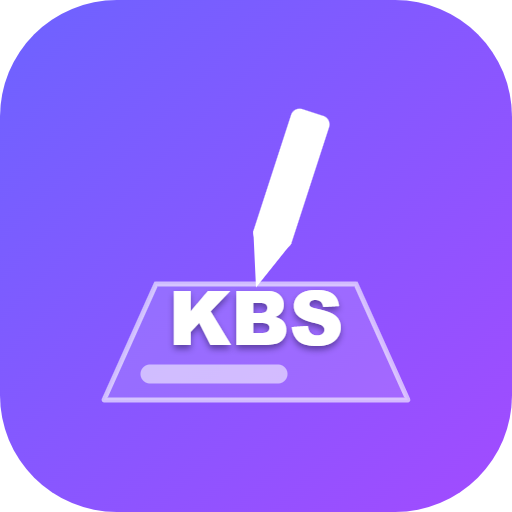
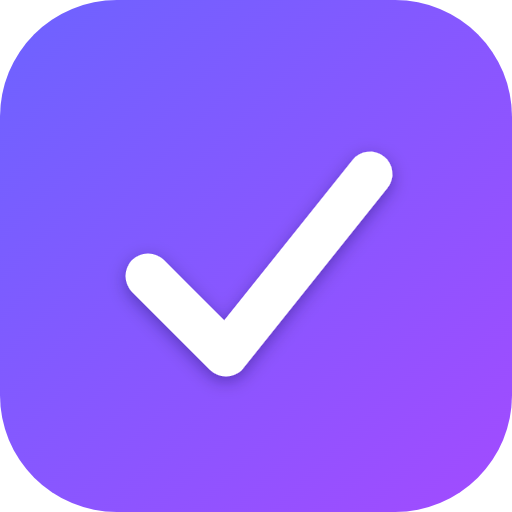
앱 아이콘 — 1d 체크(점검 완료) 디자인으로 변경
- 인디고→바이올렛 그라데 배경 + 흰 체크(주·야간 가시성 유지, 페이지 인디고와 통일)
- 홈 로고: 체크가 그려지는 draw-in 애니메이션(2.6s), reduced-motion 정지
- KBS 쓰기 디자인 → 체크로 교체, 앱아이콘 PNG 6종 재생성, sw v39

Changed region(s): [[0.1875, 0.1875, 0.8125, 0.8125]]

diff --git a/index.html b/index.html
@@ -49,15 +49,9 @@
     .hero { text-align:center; margin:14px 0 22px; }
     .emblem { display:grid; place-items:center; margin:2px auto 12px; }
     .appicon { width:116px; height:116px; border-radius:27px; overflow:hidden; box-shadow:0 12px 28px rgba(20,40,80,.30); display:block; }
-    @keyframes writeKBS { 0%{transform:translate(-96px,0)} 8%{transform:translate(-96px,-9px)} 18%{transform:translate(-96px,2px)} 33%{transform:translate(0,-9px)} 44%{transform:translate(0,2px)} 58%{transform:translate(96px,-9px)} 69%{transform:translate(96px,2px)} 82%{transform:translate(96px,0)} 100%{transform:translate(-96px,0)} }
-    @keyframes kA { 0%,12%{opacity:0} 18%,88%{opacity:1} 96%,100%{opacity:0} }
-    @keyframes kB { 0%,38%{opacity:0} 44%,88%{opacity:1} 96%,100%{opacity:0} }
-    @keyframes kS { 0%,63%{opacity:0} 69%,88%{opacity:1} 96%,100%{opacity:0} }
-    .appicon .pencil { animation:writeKBS 3s ease-in-out infinite; }
-    .appicon .kA { animation:kA 3s ease-in-out infinite; }
-    .appicon .kB { animation:kB 3s ease-in-out infinite; }
-    .appicon .kS { animation:kS 3s ease-in-out infinite; }
-    @media (prefers-reduced-motion: reduce) { .appicon .pencil{animation:none;transform:none} .appicon .kA,.appicon .kB,.appicon .kS{animation:none;opacity:1} }
+    @keyframes drawcheck { 0%{stroke-dashoffset:760} 34%{stroke-dashoffset:0} 84%{stroke-dashoffset:0} 100%{stroke-dashoffset:760} }
+    .appicon .chk { stroke-dasharray:760; animation:drawcheck 2.6s ease-in-out infinite; }
+    @media (prefers-reduced-motion: reduce) { .appicon .chk { animation:none; stroke-dashoffset:0; } }
     .wordmark { display:inline-block; font-family:var(--font-head); font-size:1.9rem; font-weight:800; line-height:1.1; letter-spacing:-.01em; color:var(--ink); }
     .wordmark::after { content:""; display:block; height:4px; border-radius:3px; margin:2px auto 0; background:linear-gradient(90deg,#6d63ff,#a24bff); }
     .subtitle { font-size:.86rem; color:var(--muted); margin-top:10px; letter-spacing:.01em; }
@@ -125,25 +119,13 @@
   <div class="wrap">
     <div class="hero">
       <div class="emblem">
-        <svg class="appicon" viewBox="0 0 1024 1024" role="img" aria-label="KBS 업무일지 앱 아이콘">
+        <svg class="appicon" viewBox="0 0 1024 1024" role="img" aria-label="점검 완료 아이콘">
           <defs>
             <linearGradient id="ibg" x1="0" y1="0" x2="1" y2="1"><stop offset="0" stop-color="#6d63ff"/><stop offset="1" stop-color="#a24bff"/></linearGradient>
-            <filter id="ksh" x="-30%" y="-30%" width="160%" height="170%"><feDropShadow dx="0" dy="8" stdDeviation="12" flood-color="#140a3c" flood-opacity="0.42"/></filter>
+            <filter id="ksh" x="-25%" y="-25%" width="150%" height="150%"><feDropShadow dx="0" dy="10" stdDeviation="16" flood-color="#150a3e" flood-opacity="0.35"/></filter>
           </defs>
           <rect width="1024" height="1024" fill="url(#ibg)"/>
-          <path d="M312 568 H712 L816 800 H208 Z" fill="#ffffff" fill-opacity="0.13" stroke="#ffffff" stroke-opacity="0.6" stroke-width="10" stroke-linejoin="round"/>
-          <path d="M300 748 H556" stroke="#ffffff" stroke-opacity="0.55" stroke-width="38" stroke-linecap="round"/>
-          <g filter="url(#ksh)" font-family="'Pretendard Variable',Pretendard,Arial,sans-serif" font-weight="800" font-size="150" text-anchor="middle" fill="#ffffff">
-            <text class="kA" x="416" y="690">K</text>
-            <text class="kB" x="512" y="690">B</text>
-            <text class="kS" x="608" y="690">S</text>
-          </g>
-          <g class="pencil">
-            <g transform="rotate(18 512 575)">
-              <rect x="472" y="207" width="80" height="278" rx="18" fill="#ffffff"/>
-              <path d="M472 469 L512 575 L552 469 Z" fill="#ffffff"/>
-            </g>
-          </g>
+          <path class="chk" d="M296 552 L452 708 L740 348" fill="none" stroke="#ffffff" stroke-width="90" stroke-linecap="round" stroke-linejoin="round" filter="url(#ksh)"/>
         </svg>
       </div>
       <div class="wordmark">전국 송·중계소</div>

diff --git a/sw.js b/sw.js
@@ -1,5 +1,5 @@
 // KBS 일일업무일지 PWA 서비스워커 — 네트워크 우선 + 오프라인 캐시 폴백
-const CACHE = "ilji-v38";
+const CACHE = "ilji-v39";
 const SHELL = [
   "./", "./index.html", "./daily.html", "./cases.html", "./help.html", "./analysis.html", "./ai.html",
   "./hwpx.js", "./photo.js", "./storage.js", "./photoStorage.js",
